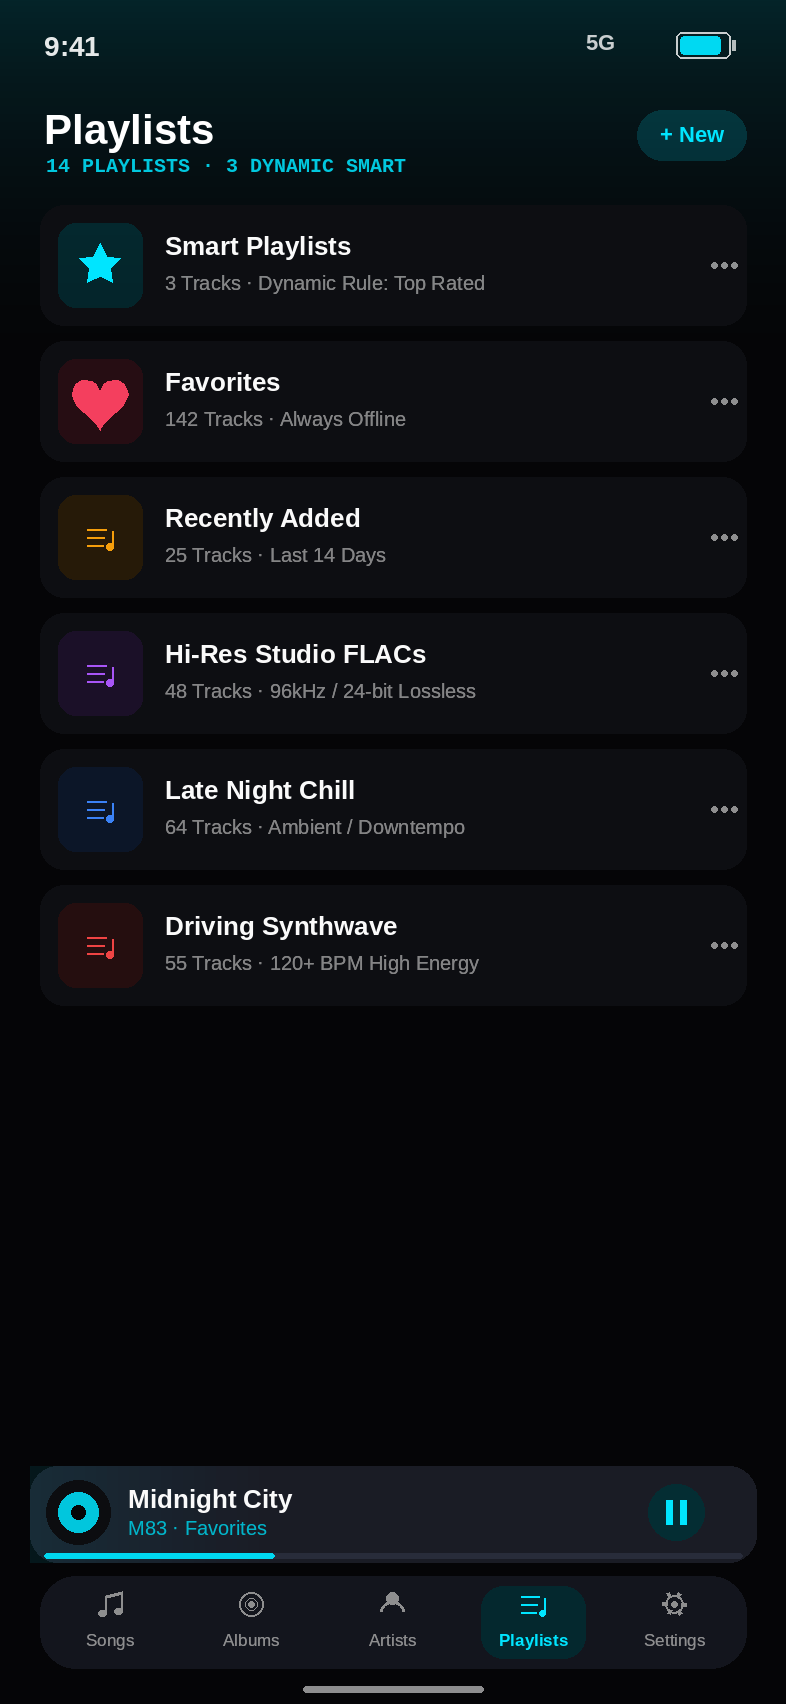
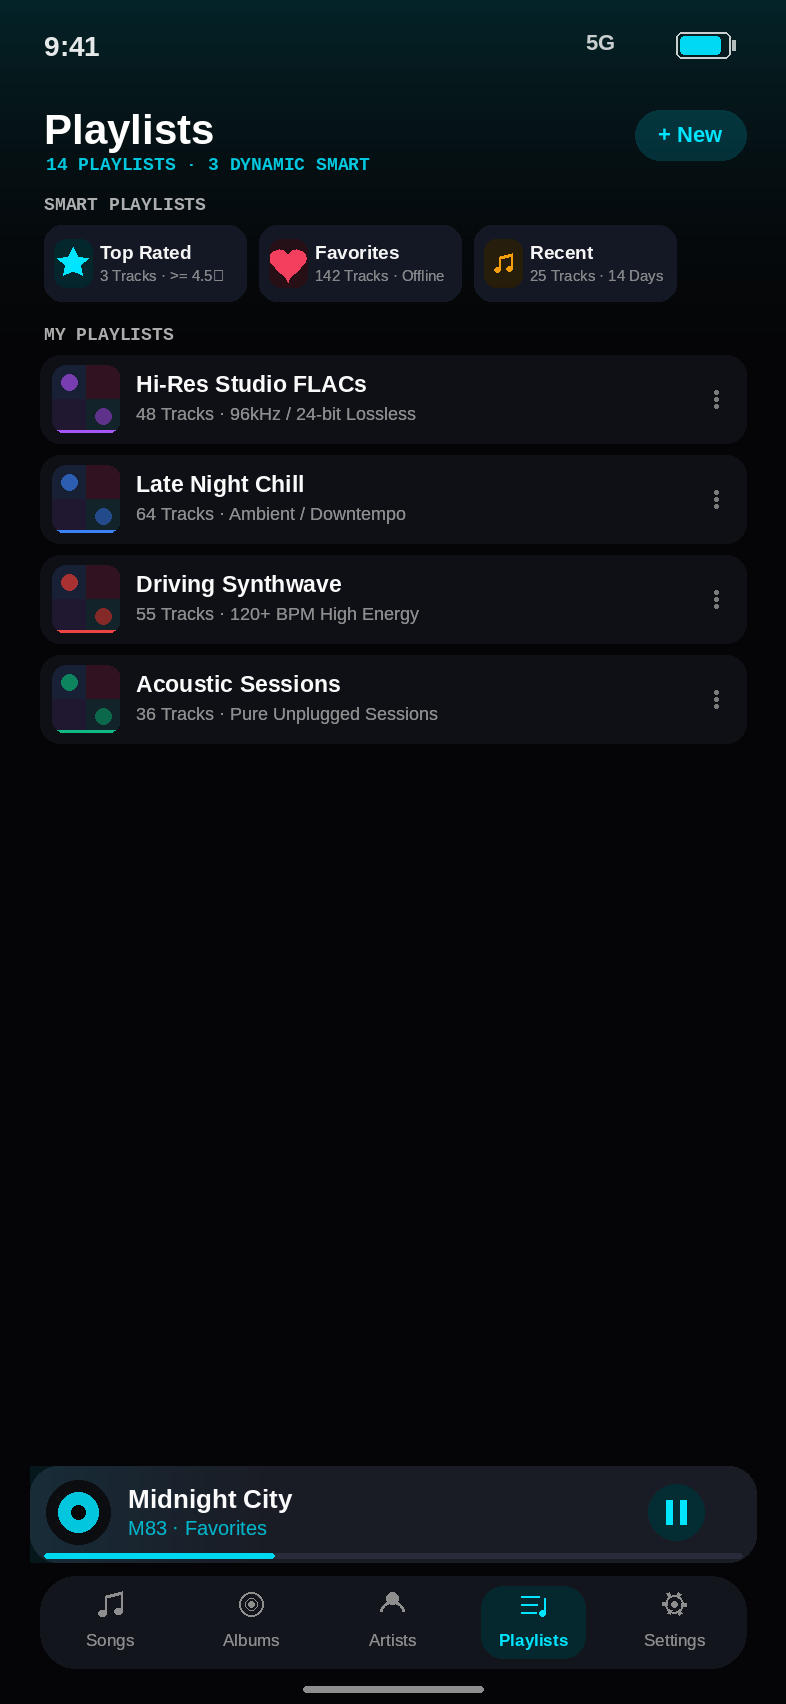
fix(ui): split smart playlists ribbon, 2x2 collage artwork, and active nav pill (UI Audit 06/42)

diff --git a/lib/features/playlists/presentation/screens/playlists_tab_screen.dart b/lib/features/playlists/presentation/screens/playlists_tab_screen.dart
@@ -105,7 +105,25 @@ class PlaylistsTabScreen extends ConsumerWidget {
       backgroundColor: Colors.transparent,
       extendBodyBehindAppBar: true,
       appBar: GlassAppBar(
-        titleText: 'Playlists',
+        title: Column(
+          crossAxisAlignment: CrossAxisAlignment.start,
+          mainAxisSize: MainAxisSize.min,
+          children: [
+            const Text('Playlists', style: AppTypography.titleLarge),
+            playlistsAsync.maybeWhen(
+              data: (playlists) => Text(
+                '${playlists.length} PLAYLISTS · 3 DYNAMIC SMART',
+                style: AppTypography.labelSmall.copyWith(
+                  color: Theme.of(context).colorScheme.primary.withOpacity(0.85),
+                  fontWeight: FontWeight.w600,
+                  letterSpacing: 0.5,
+                  fontSize: 10.5,
+                ),
+              ),
+              orElse: () => const SizedBox.shrink(),
+            ),
+          ],
+        ),
         automaticallyImplyLeading: false,
         actions: [
           IconButton(
@@ -272,16 +290,52 @@ class PlaylistsTabScreen extends ConsumerWidget {
                               child: Row(
                                 children: [
                                   Container(
-                                    width: 48,
-                                    height: 48,
+                                    width: 52,
+                                    height: 52,
                                     decoration: BoxDecoration(
                                       borderRadius: BorderRadius.circular(14),
                                       color: surfaceTokens.level2,
                                     ),
-                                    child: Icon(
-                                      Icons.queue_music_rounded,
-                                      color: accent,
-                                      size: 24,
+                                    clipBehavior: Clip.antiAlias,
+                                    child: Stack(
+                                      children: [
+                                        // 2x2 Artwork Collage quadrants
+                                        Column(
+                                          children: [
+                                            Expanded(
+                                              child: Row(
+                                                children: [
+                                                  Expanded(child: Container(color: accent.withOpacity(0.20))),
+                                                  Expanded(child: Container(color: theme.colorScheme.surface.withOpacity(0.5))),
+                                                ],
+                                              ),
+                                            ),
+                                            Expanded(
+                                              child: Row(
+                                                children: [
+                                                  Expanded(child: Container(color: theme.colorScheme.surface.withOpacity(0.3))),
+                                                  Expanded(child: Container(color: accent.withOpacity(0.35))),
+                                                ],
+                                              ),
+                                            ),
+                                          ],
+                                        ),
+                                        Center(
+                                          child: Icon(
+                                            Icons.queue_music_rounded,
+                                            color: accent,
+                                            size: 22,
+                                          ),
+                                        ),
+                                        // Subtle 2px energy accent ribbon at bottom
+                                        Positioned(
+                                          bottom: 0,
+                                          left: 0,
+                                          right: 0,
+                                          height: 2.5,
+                                          child: Container(color: accent),
+                                        ),
+                                      ],
                                     ),
                                   ),
                                   const SizedBox(width: AppSpacing.md),
